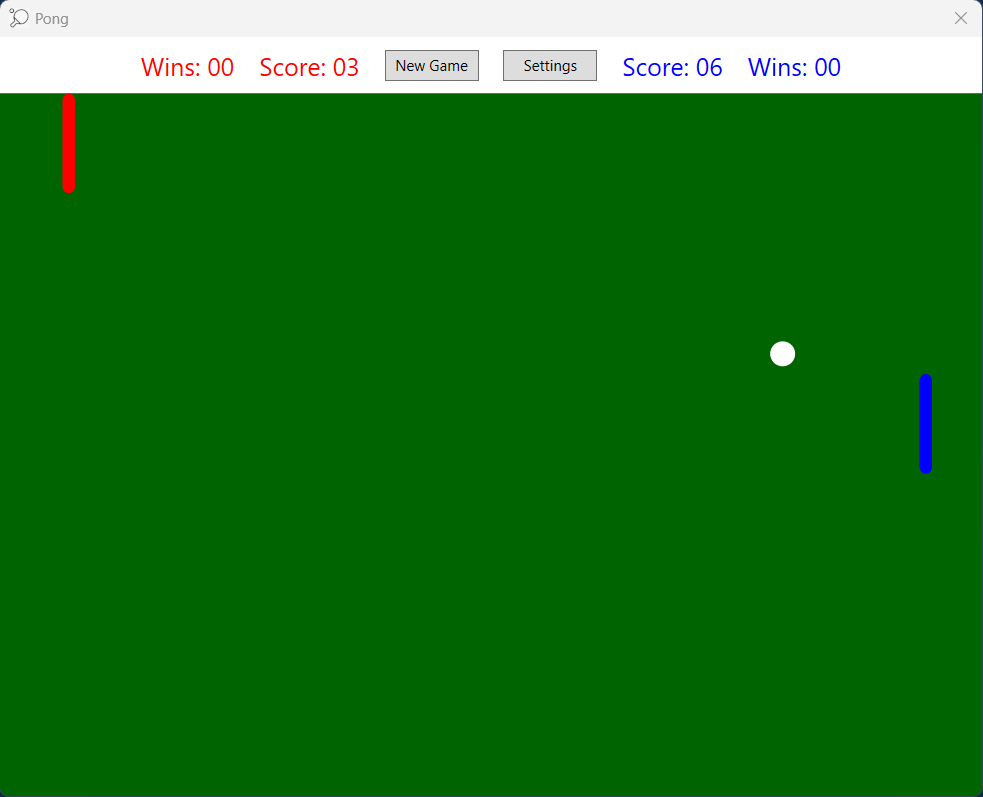
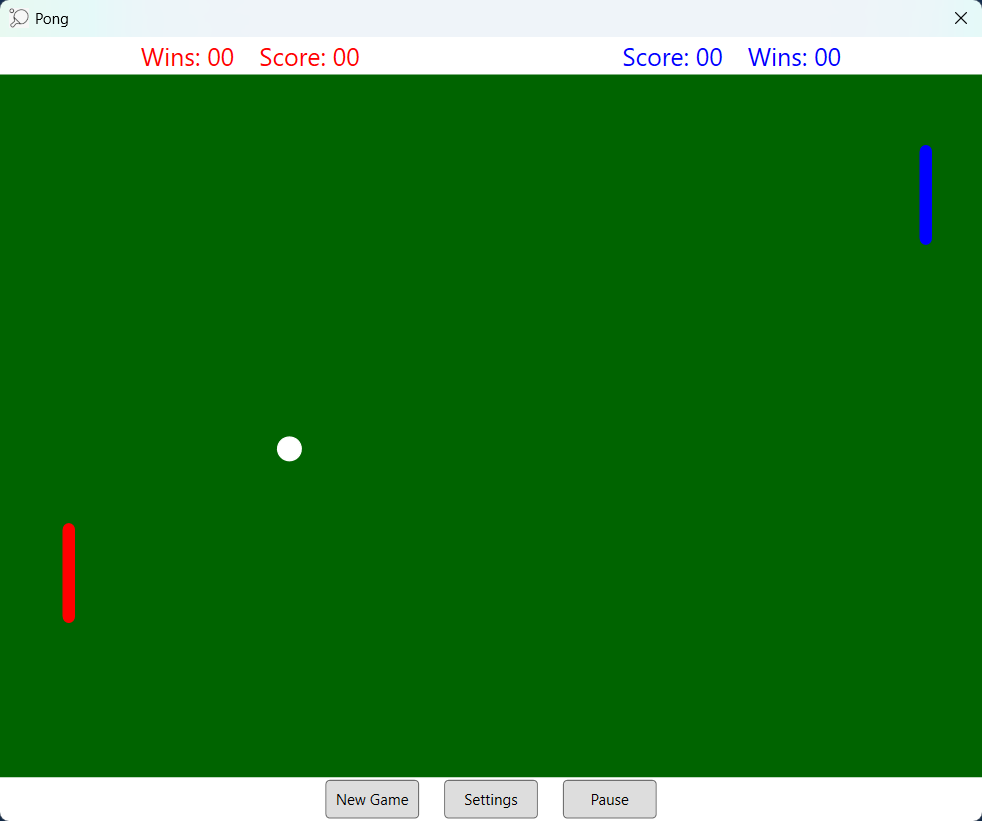
Add files via upload

diff --git a/Pong.html b/Pong.html
@@ -25,7 +25,7 @@
 	<p></p>
     <img src="Pong.png" alt="game">
 	<p>for Windows 10/11</p>
-	<a href="https://github.com/Radish8388/Pong1.1/releases/download/v1.1/PongSetup.exe">Download Pong</a>
+	<a href="https://github.com/Radish8388/Pong1.1/releases/download/v1.2.0/PongSetup.exe">Download Pong</a>
 	<p>Instructions:</p>
 	<p>1. Download PongSetup.exe from the link above</p>
 	<p>2. If you are using Microsoft Edge, it may warn that this file isn't commonly downloaded. This is normal for new software — choose Keep and then Keep Anyway to proceed with the download.</p>
